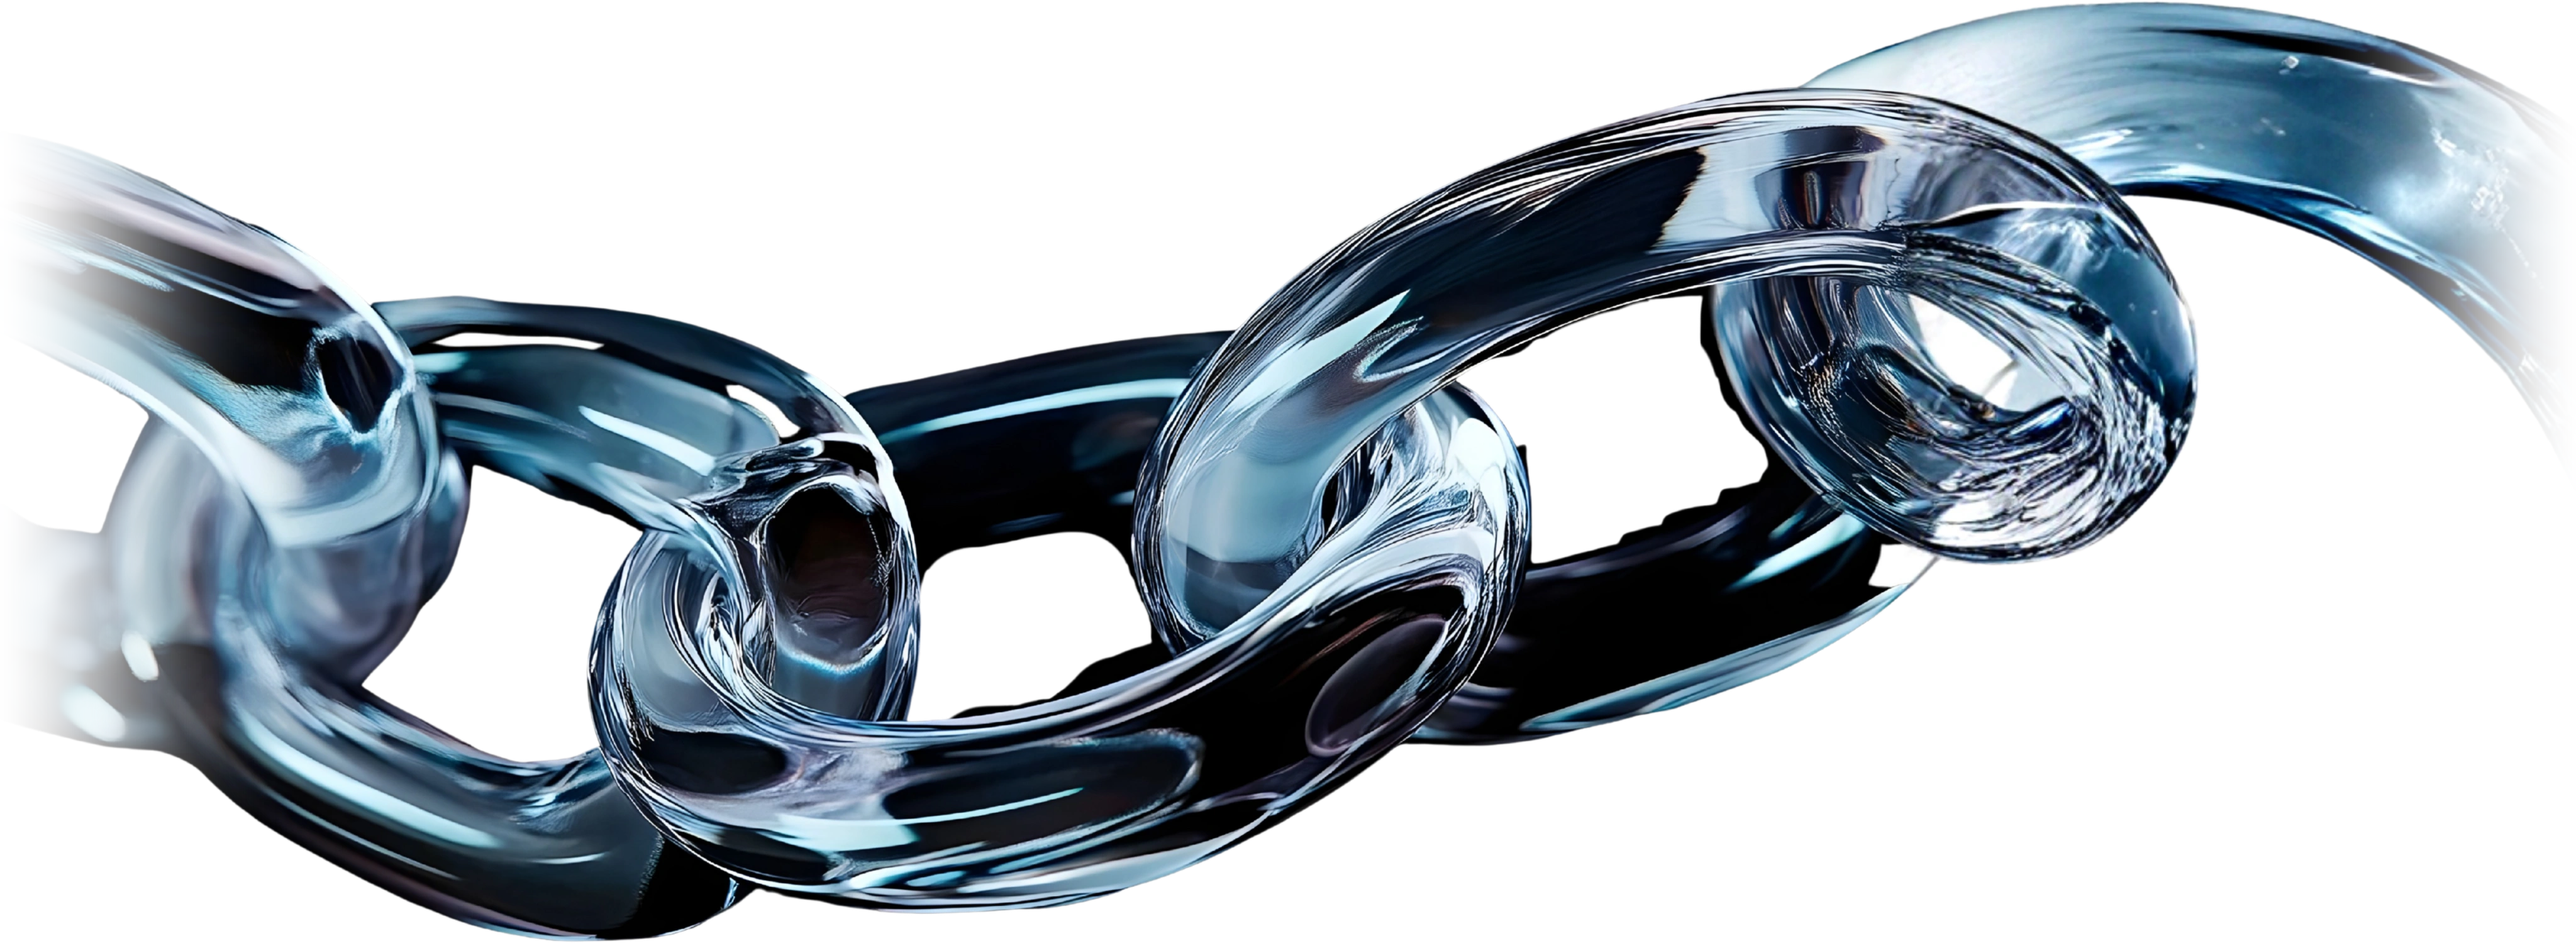
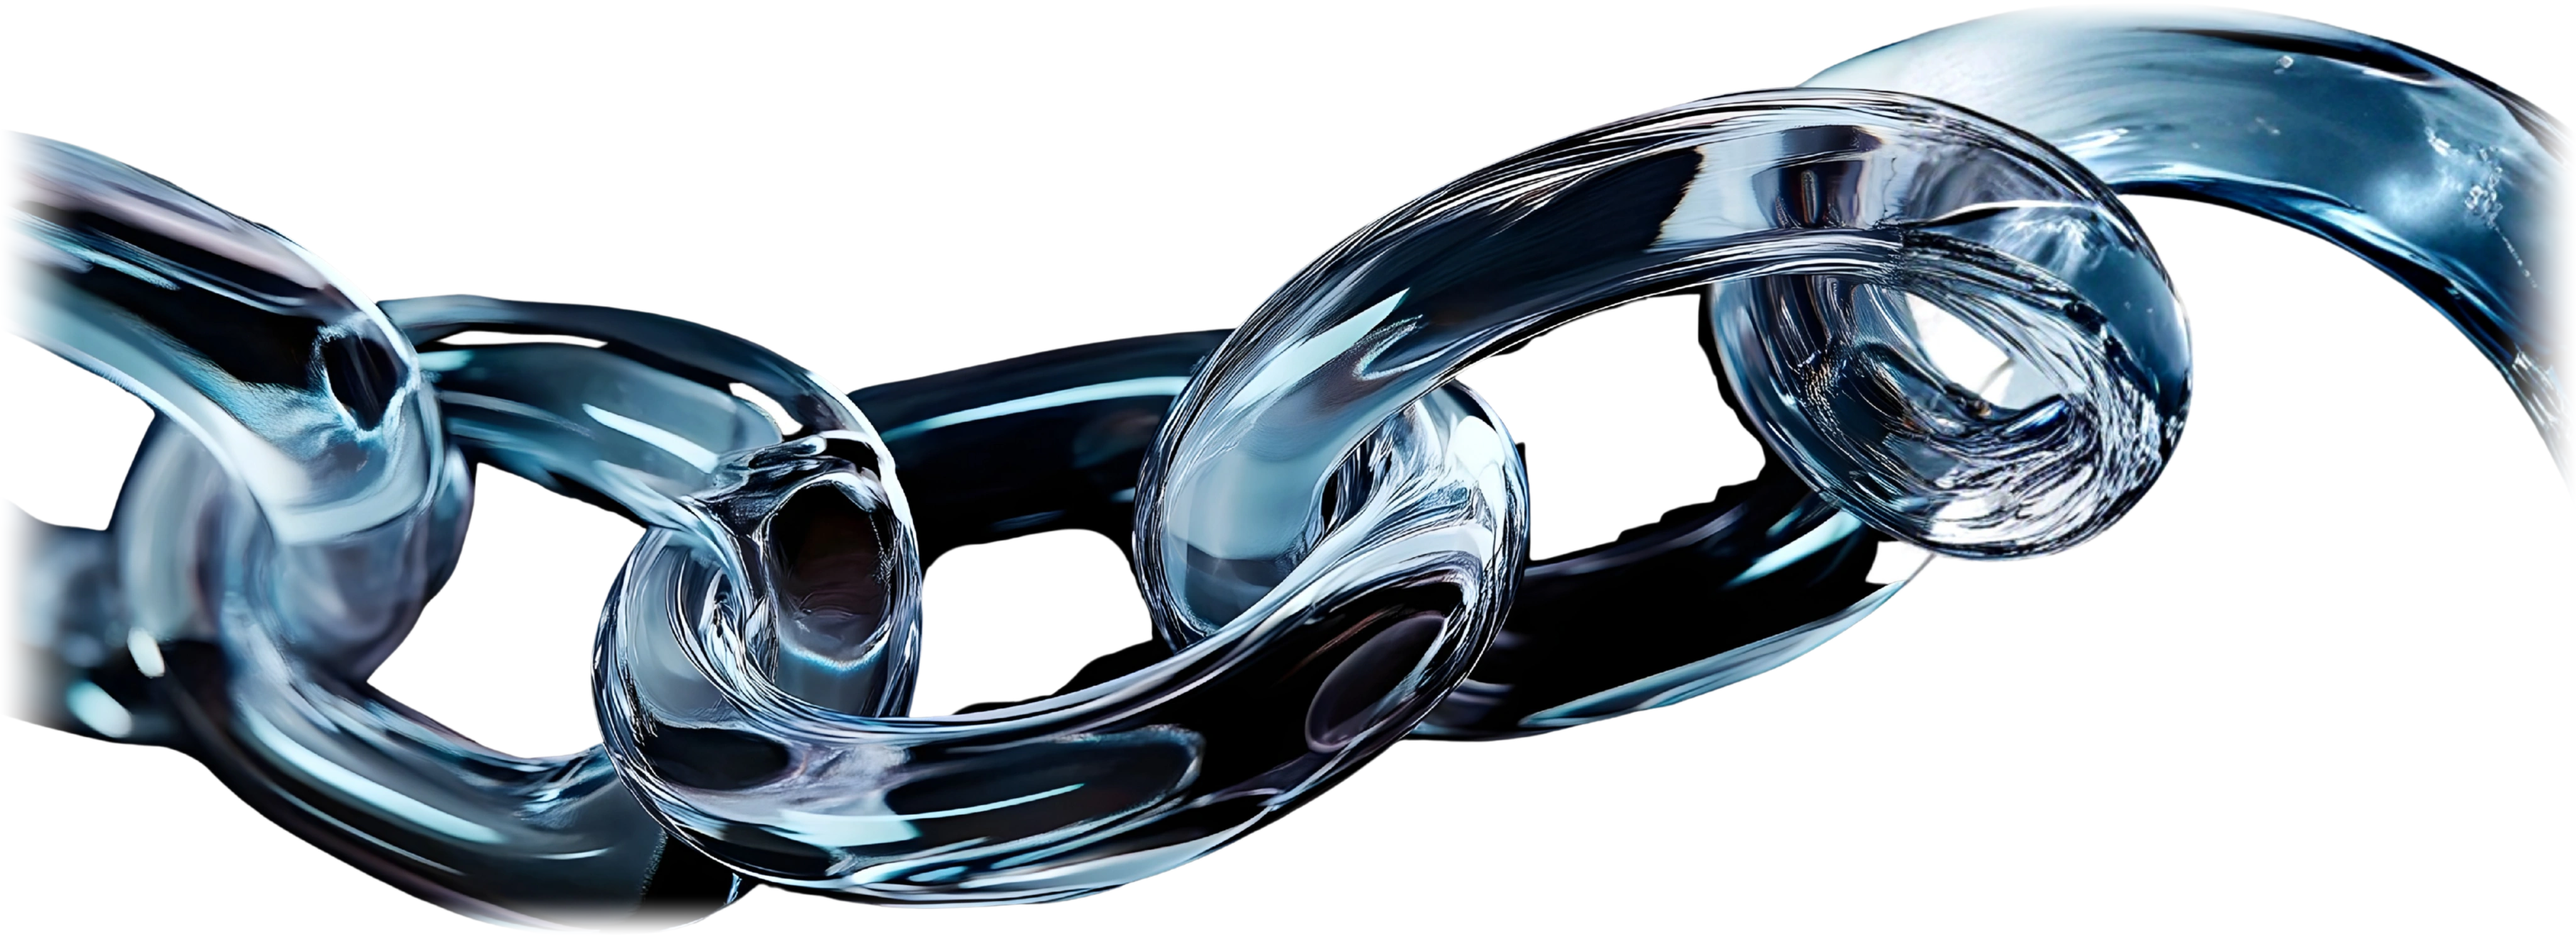
feat: span 3D waves edge-to-edge horizontally with dual vertical soft-feathering and zero seams

diff --git a/style.css b/style.css
@@ -658,14 +658,15 @@ body, body.desktop-view {
   left: 50%;
   top: 50%;
   transform: translate(-50%, -50%);
-  width: auto;
-  max-width: 105vw;
-  height: 75vh;
-  max-height: 820px;
+  width: 104vw;
+  max-width: none;
+  height: auto;
   pointer-events: none;
   z-index: 1;
   opacity: 0.65;
   filter: drop-shadow(0 0 50px rgba(67, 106, 238, 0.45));
+  -webkit-mask-image: linear-gradient(to bottom, transparent 0%, black 8%, black 92%, transparent 100%);
+  mask-image: linear-gradient(to bottom, transparent 0%, black 8%, black 92%, transparent 100%);
 }
 
 .about-grid {
@@ -837,16 +838,17 @@ body, body.desktop-view {
 .org-wave-horizontal {
   position: absolute;
   left: 50%;
-  top: 50%;
+  top: 52%;
   transform: translate(-50%, -50%);
-  width: auto;
-  max-width: 105vw;
-  height: 75vh;
-  max-height: 820px;
+  width: 104vw;
+  max-width: none;
+  height: auto;
   pointer-events: none;
   z-index: 1;
   opacity: 0.60;
   filter: drop-shadow(0 0 50px rgba(145, 224, 253, 0.4));
+  -webkit-mask-image: linear-gradient(to bottom, transparent 0%, black 8%, black 92%, transparent 100%);
+  mask-image: linear-gradient(to bottom, transparent 0%, black 8%, black 92%, transparent 100%);
 }
 
 .organizers-cards-grid {
@@ -1307,14 +1309,15 @@ body, body.desktop-view {
   left: 50%;
   top: 56%;
   transform: translate(-50%, -50%);
-  width: auto;
-  max-width: 105vw;
-  height: 65vh;
-  max-height: 680px;
+  width: 104vw;
+  max-width: none;
+  height: auto;
   pointer-events: none;
   z-index: 1;
-  opacity: 0.65;
+  opacity: 0.85;
   filter: drop-shadow(0 0 50px rgba(67, 106, 238, 0.45));
+  -webkit-mask-image: linear-gradient(to bottom, transparent 0%, black 8%, black 92%, transparent 100%);
+  mask-image: linear-gradient(to bottom, transparent 0%, black 8%, black 92%, transparent 100%);
 }
 
 .stages-timeline-row {
